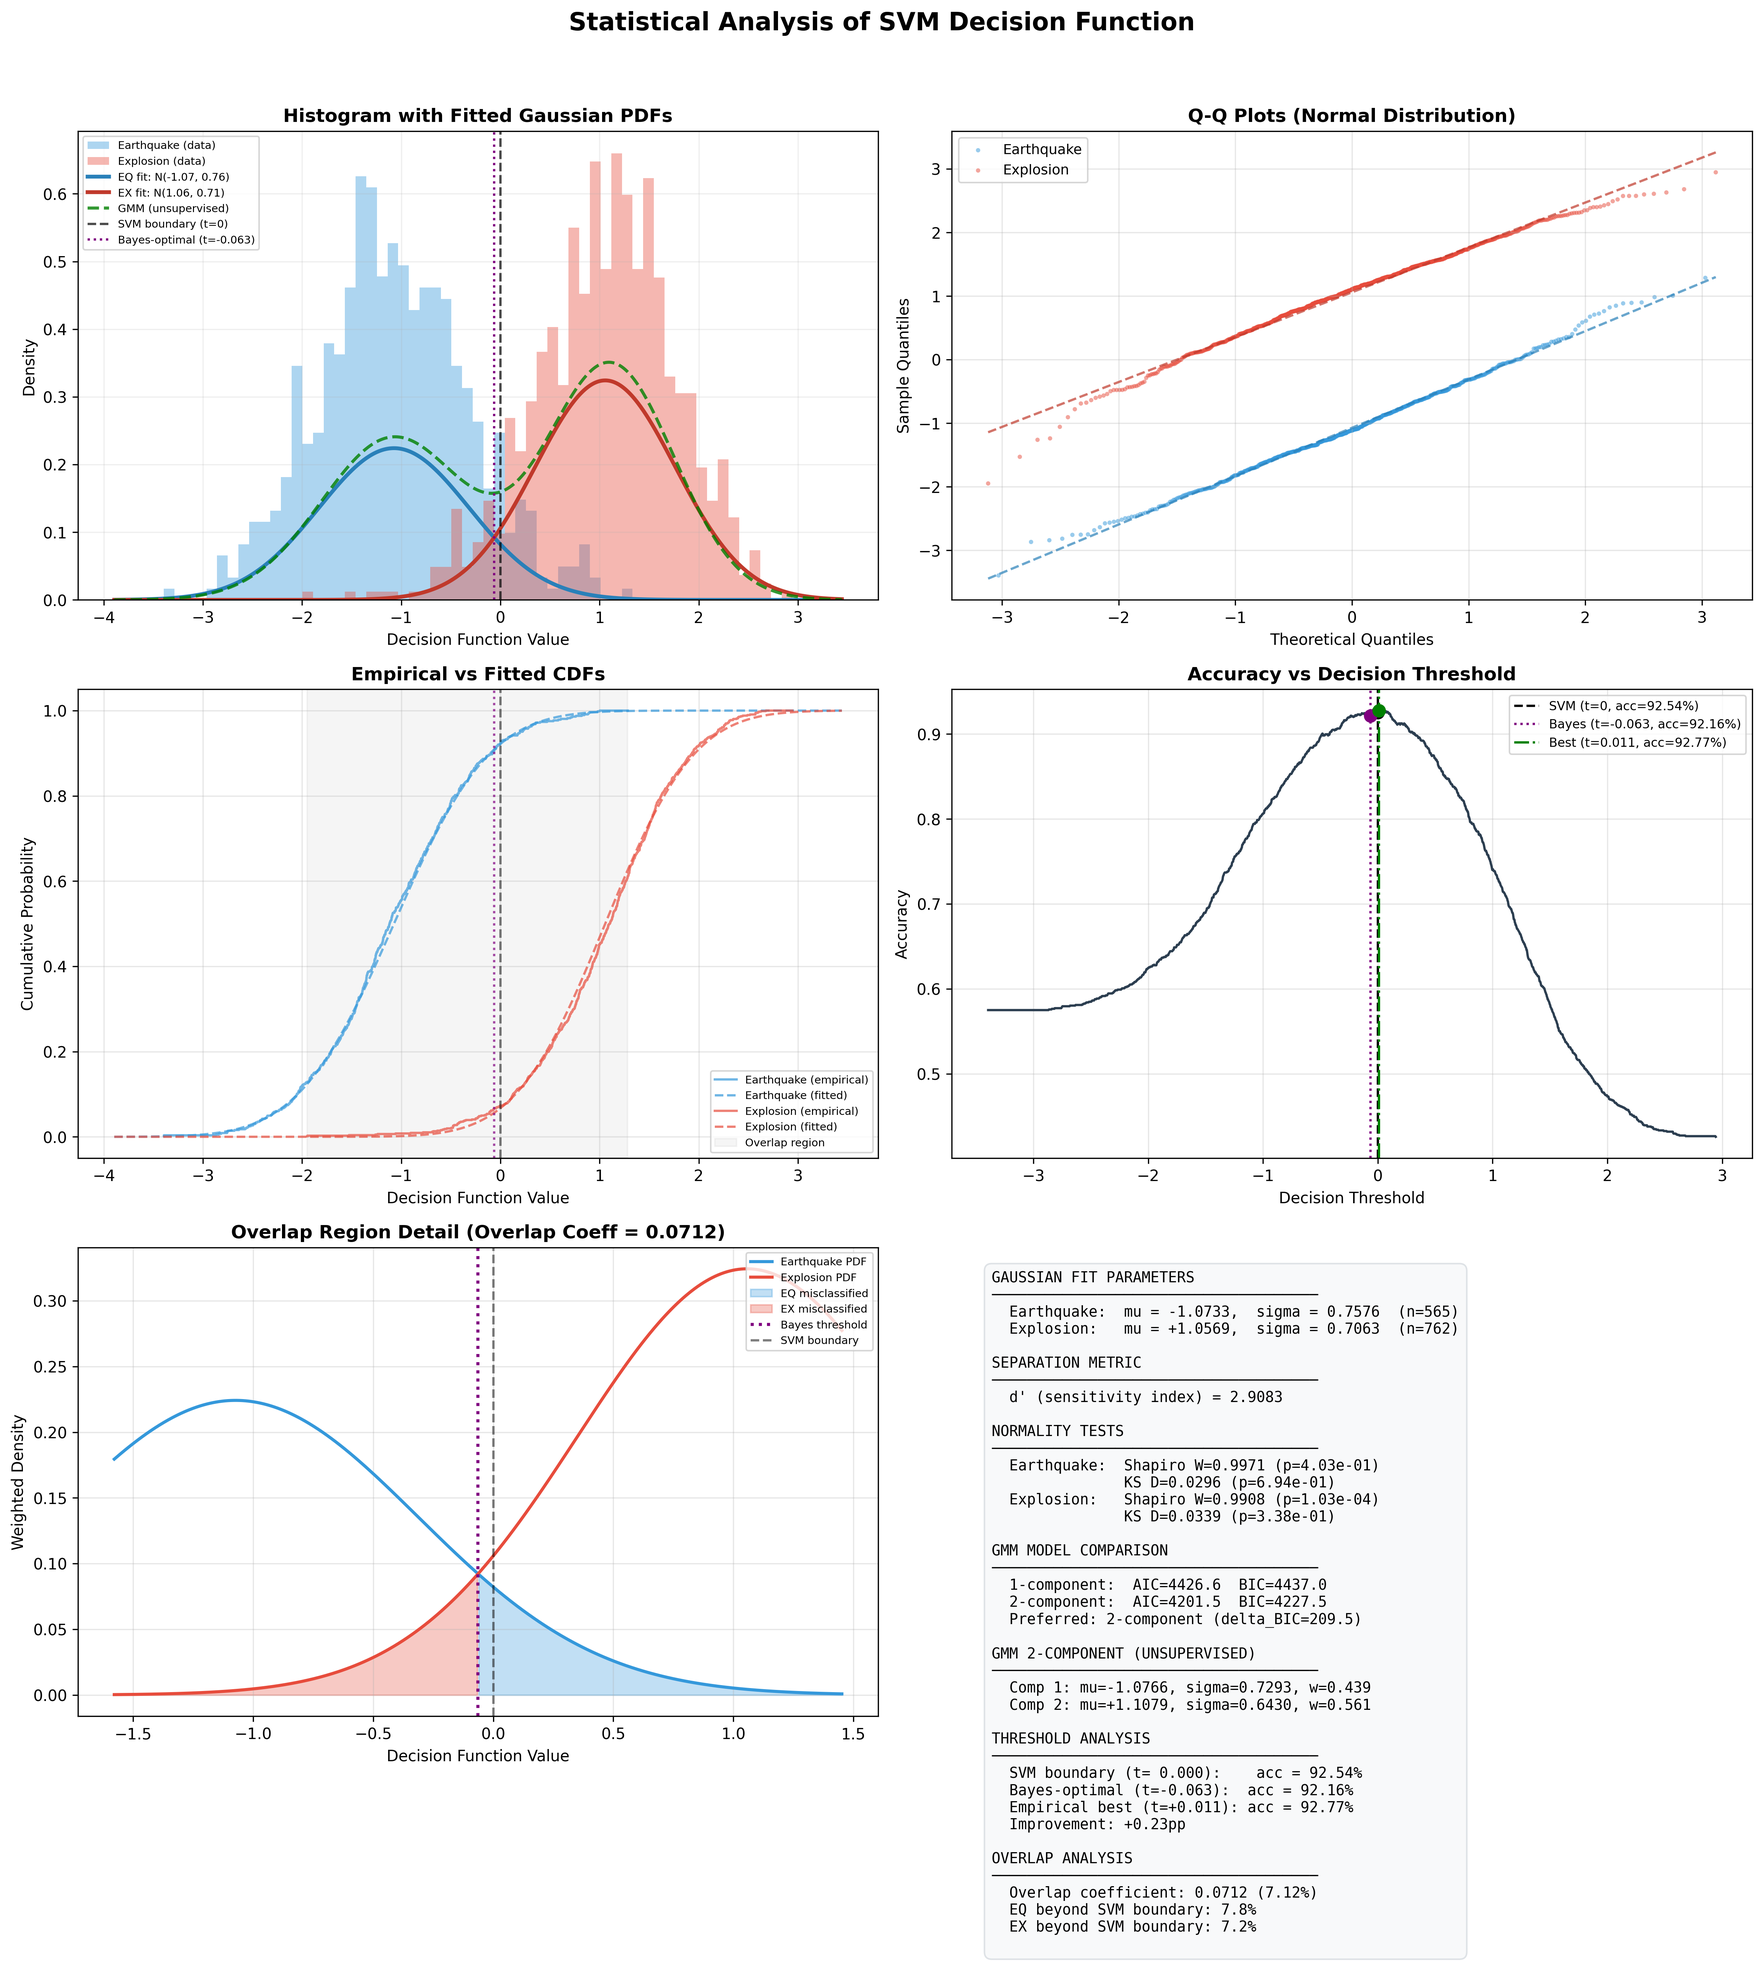
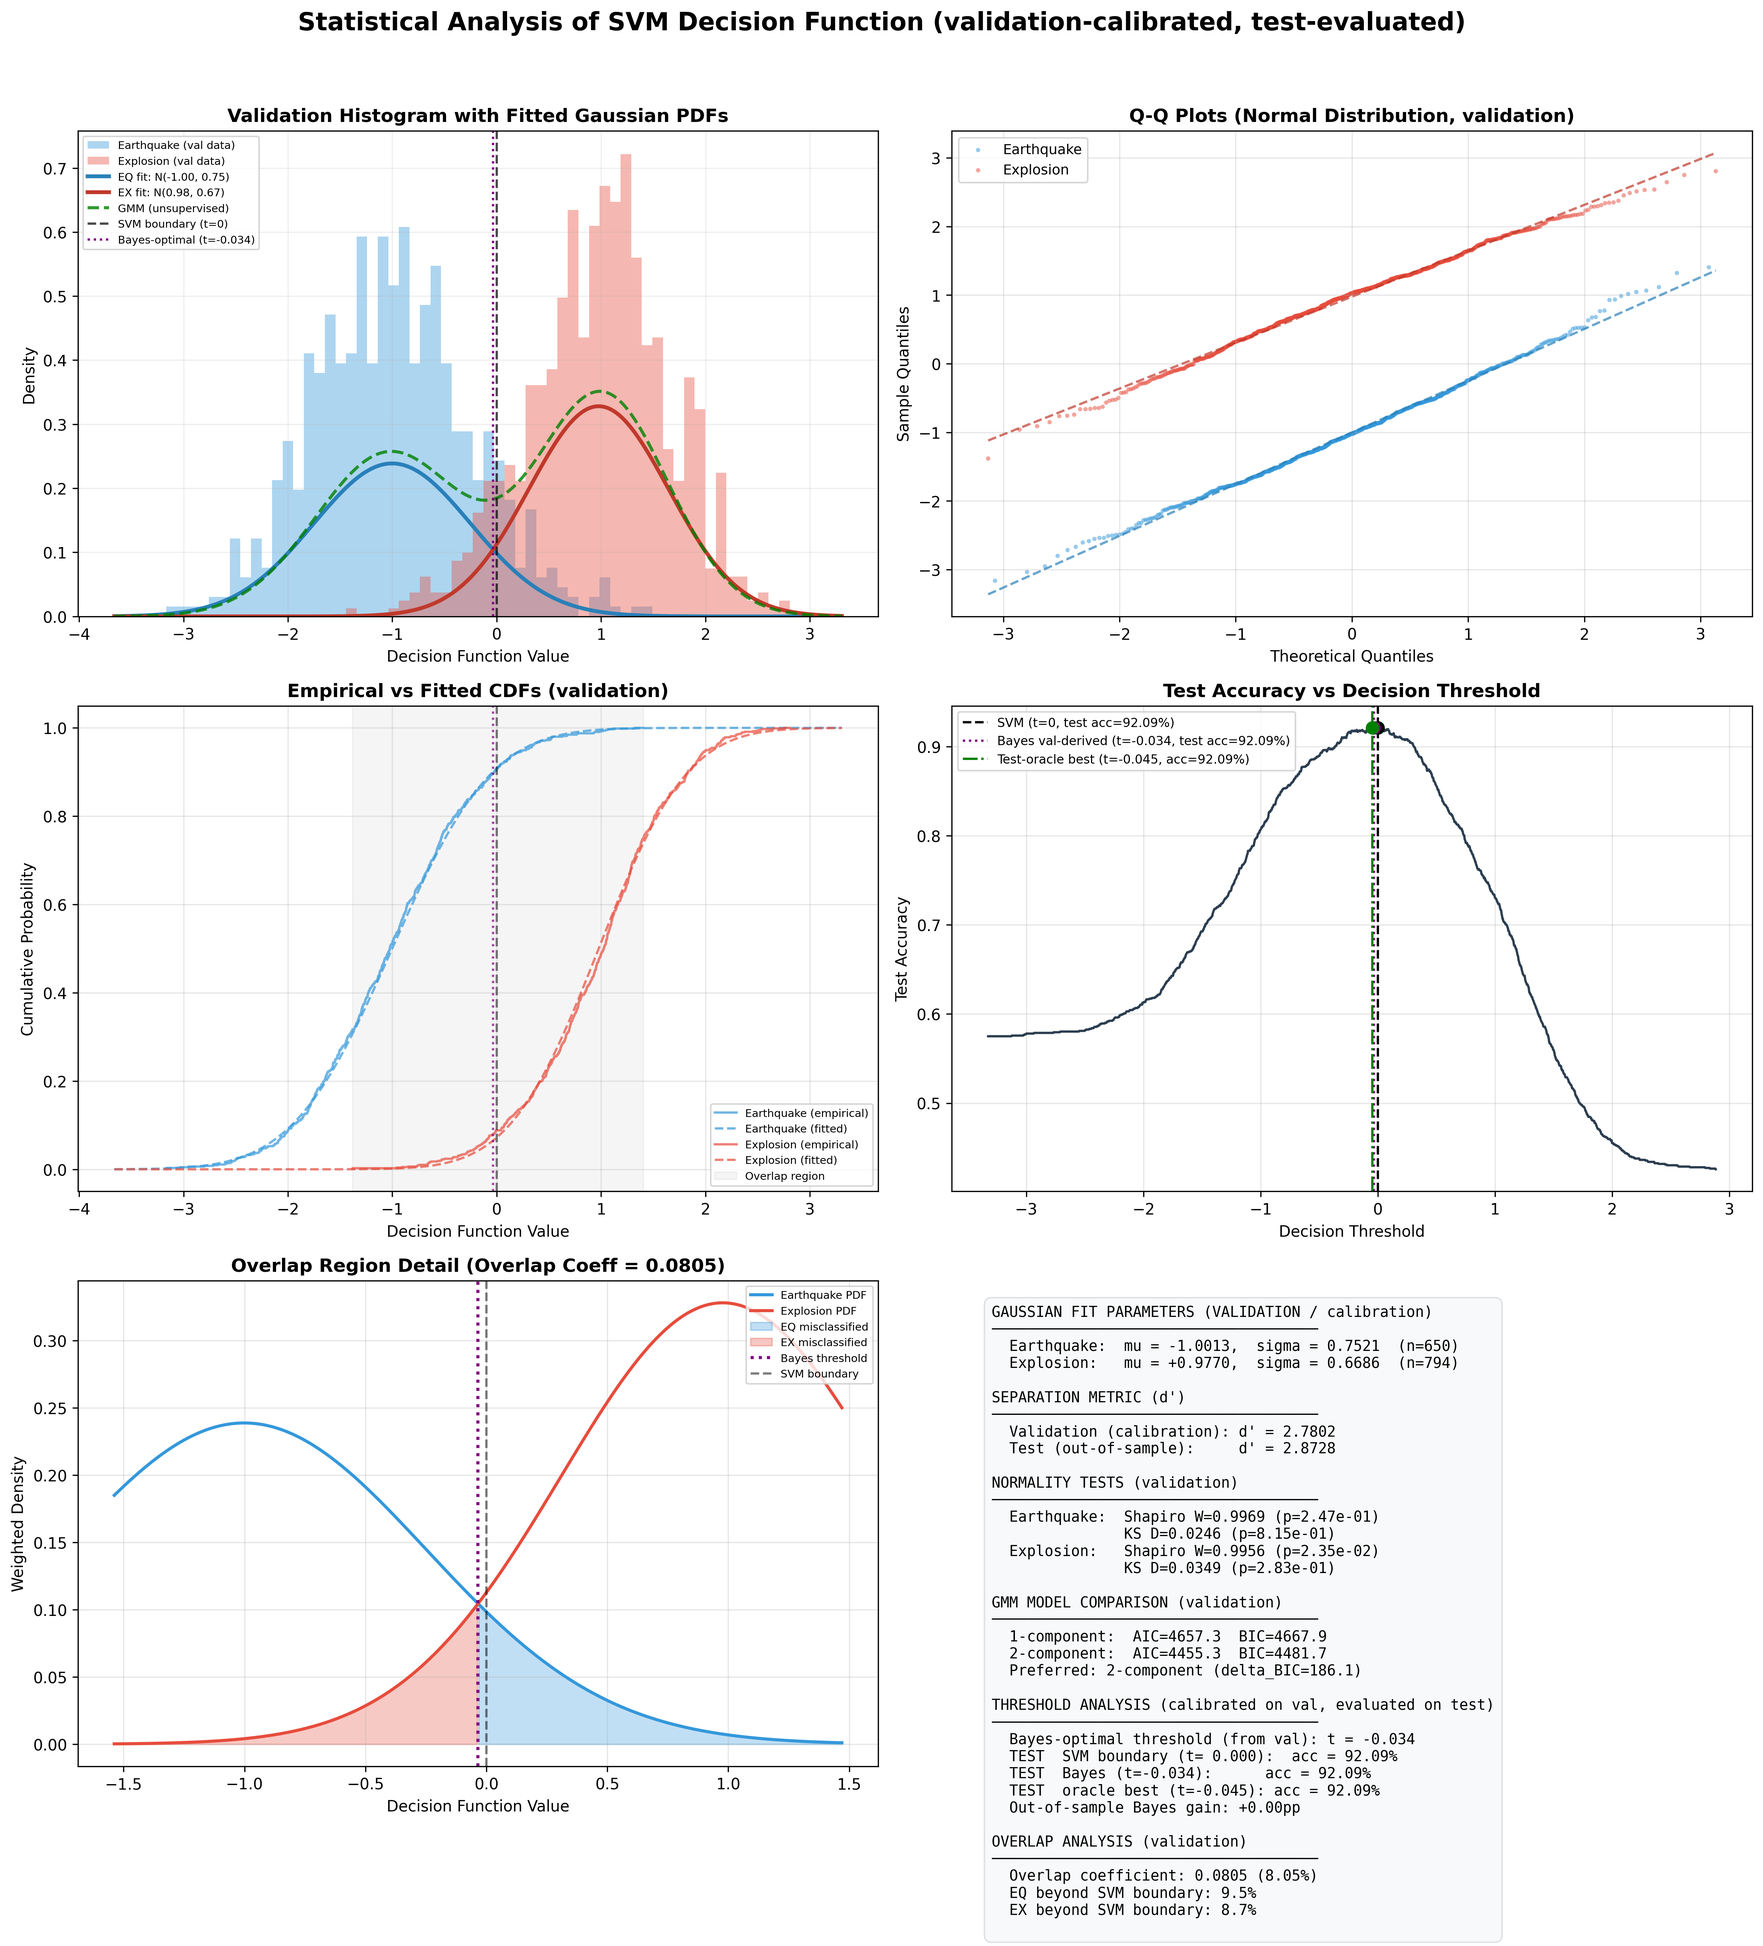
README: sync decision-function statistics with the paper; add Fig. 6
- Statistics section now reports the validation-calibrated, test-evaluated
  analysis used in the paper and supplement (Table S2-S4): Gaussian and GMM
  fits, BIC, normality tests, d' (2.78 val / 2.87 test), Bayes threshold
  (-0.034) and deployment-prior table. Replaces the older test-set fit.
- BIC read on the Kass & Raftery scale as an approximation to 2 ln B;
  drop the "d' > 2 is excellent" claim.
- Replace the class-mean spectra image with paper Fig. 6
  (spectra_and_ratio_by_channel.png); refresh the two statistics figures.
- Document how to regenerate paper Figs. 2 and 6, and warn that
  plot_decision_boundary overwrites the Fig. 2 files with a random pair.

diff --git a/README.md b/README.md
@@ -59,6 +59,7 @@ seismic-event-classifier/
 │       ├── p_only_and_distance.py        # P- vs S-onset accuracy; distance baseline and matched-distance accuracy
 │       ├── export_advisor_table.py       # Generate advisor review tables
 │       ├── plot_station_map.py           # Station map visualization
+│       ├── plot_advisor_examples.py      # Paper Fig. 2 (example pair) and Fig. 6 (spectra and ratio)
 │       └── extract_example_waveforms.py  # Extract example waveforms for figures
 ├── figures/                              # Figures embedded in this README
 ├── advisor_figures/                      # Figures contributed by domain advisor (GSI)
@@ -119,7 +120,9 @@ Raw Seismic Data (N, 600, 3)     600 timesteps x 3 channels (Z, N, E)
 
 After selecting the best hyperparameters on the validation set, the model is retrained on **train + val combined** before evaluating on test. The test set is never seen during tuning.
 
-![Average Spectra](figures/average_spectra.png)
+![Spectra and explosion/earthquake ratio for one event pair](figures/spectra_and_ratio_by_channel.png)
+
+Paper Fig. 6: per-channel spectra of one earthquake (event 123583 at OFRI) and one explosion (event 399313 at ZFRI), the same pair as the paper's Fig. 2. Top: spectra normalized to each channel's peak. Bottom: log10 explosion/earthquake ratio. The band outside the 1-20 Hz bandpass is shaded.
 
 ## Ablation Study
 
@@ -218,83 +221,86 @@ python -m src.post_review.event_level_predictions
 
 ## Statistical Analysis of the Decision Function
 
-We observed that the SVM decision function values for each class closely resemble Gaussian distributions. To rigorously validate this and exploit it, we conducted a deep statistical analysis on a single SVM model (FFT + Euclidean, k=120). The ensemble uses majority voting across 5 models and does not produce a single decision function, so the distributional analysis characterizes individual models within the ensemble.
+The SVM decision-function values for each class closely resemble Gaussian distributions. We analyze this on a single SVM model (FFT + Euclidean, k=120): the ensemble combines five models by majority vote and has no single decision function, so the analysis characterizes the individual models within it. Following the paper's out-of-sample protocol, the analysis model is trained on the training split, every quantity below is calibrated on the validation split, and the test split is used only for evaluation (paper Section 5.8; Supplementary Material, Sections S-III and S-IV).
 
 ### Gaussian Mixture Model Validation
 
-We fit individual Gaussians to each class's decision function values and separately fit a 2-component GMM to the combined (unlabeled) decision values.
+We fit a Gaussian to each class's validation decision values and, separately, a 2-component GMM to the pooled (unlabeled) validation decision values.
 
-| Parameter | Earthquake | Explosion |
-|-----------|-----------|-----------|
-| Mean (mu) | -1.07 | +1.06 |
-| Std (sigma) | 0.76 | 0.71 |
-| n | 565 | 762 |
+| Fit | Class | Mean (mu) | Std (sigma) | Weight |
+|-----|-------|-----------|-------------|--------|
+| Supervised | Earthquake (n=650) | -1.00 | 0.75 | 0.450 |
+| Supervised | Explosion (n=794) | +0.98 | 0.67 | 0.550 |
+| Unsupervised GMM | Component 1 | -1.03 | 0.71 | 0.452 |
+| Unsupervised GMM | Component 2 | +1.01 | 0.63 | 0.548 |
 
 ![Decision Function Analysis](figures/decision_function_analysis.png)
 
-**The unsupervised GMM recovers the class structure without labels.** The 2-component GMM (fitted on unlabeled decision values) finds components at mu=-1.08 and mu=+1.11 with weights 0.44/0.56 -- nearly identical to the supervised fits and the true class proportions (42.6%/57.4%). This confirms that the class separation in the SVM's decision space is intrinsic to the data, not an artifact of the classifier.
+**The unsupervised GMM recovers the class structure without labels.** Its component means lie within 0.05 of the supervised means, and its weights within 0.02 of the validation class proportions (45.0%/55.0%). The two-class structure is therefore intrinsic to the decision function rather than an artifact of supervised fitting.
 
-**Model selection strongly favors 2 components.** BIC comparison: 1-component BIC=4437.0, 2-component BIC=4227.5, delta_BIC=209.5. A delta_BIC > 10 is conventionally considered "very strong evidence" (Kass & Raftery, 1995), making this result unambiguous.
+**Model selection favors 2 components.** BIC is 4667.9 for one component and 4481.7 for two (delta_BIC ≈ 186). Because delta_BIC approximates twice the log Bayes factor, it can be read on the Kass & Raftery (1995) scale, where values above 10 count as "very strong" evidence; 186 is far beyond that.
 
 ### Normality Tests
 
-| Test | Earthquake | Explosion |
+| Test | Earthquake (n=650) | Explosion (n=794) |
 |------|-----------|-----------|
-| Shapiro-Wilk W | 0.9971 (p=0.403) | 0.9908 (p=1.0×10⁻⁴) |
-| Kolmogorov-Smirnov D | 0.0296 (p=0.694) | 0.0339 (p=0.338) |
+| Shapiro-Wilk W | 0.9969 (p=0.247) | 0.9956 (p=0.023) |
+| Kolmogorov-Smirnov D | 0.0246 (p=0.815) | 0.0349 (p=0.283) |
 
-The KS test cannot reject normality for either class (p > 0.33), confirming the Gaussian assumption. The Shapiro-Wilk test, which is more sensitive to tail deviations, detects statistically significant but practically negligible departures (W > 0.99 in both cases). The Q-Q plots show these deviations are limited to the extreme tails.
+The KS test cannot reject normality for either class. The more tail-sensitive Shapiro-Wilk test flags a statistically significant but small departure for the explosion class (W > 0.99 for both classes); the Q-Q plots show that the deviations are confined to the extreme tails.
 
 ### Sensitivity Index (d-prime)
 
-The d-prime (d') from signal detection theory provides a single scalar measuring class separability:
+The d-prime (d') from signal detection theory measures class separability as the distance between the class means in pooled standard deviations:
 
-$$d' = \frac{|\mu_{EX} - \mu_{EQ}|}{\sqrt{(\sigma_{EQ}^2 + \sigma_{EX}^2)/2}} = 2.91$$
+$$d' = \frac{|\mu_{EX} - \mu_{EQ}|}{\sqrt{(\sigma_{EQ}^2 + \sigma_{EX}^2)/2}}$$
 
-A d' of 2.91 corresponds to approximately 93% correct classification under optimal conditions (equal-variance Gaussian model), which closely matches our observed test accuracy. In psychophysics and signal detection literature, d' > 2 is considered "excellent" discriminability.
+With the validation fits, d' = 2.78; the same class-conditional model gives d' = 2.87 on the held-out test set. For two equal-variance Gaussians, a d' in this range corresponds to an ideal-observer accuracy of about 92%, close to the single SVM's test accuracy (92.09%).
 
 ### Bayes-Optimal Threshold Calibration
 
-The standard SVM decision boundary sits at `decision_function(x) = 0`, which implicitly assumes equal class priors. However, our test set has 762 explosions vs 565 earthquakes (57%/43%). The Bayes-optimal threshold accounts for this imbalance by finding where the prior-weighted posterior densities cross:
+The standard SVM decision boundary sits at `decision_function(x) = 0`, which implicitly assumes equal class priors. The Bayes-optimal threshold is where the prior-weighted class densities cross:
 
 $$P(EQ) \cdot \mathcal{N}(x; \mu_{EQ}, \sigma_{EQ}) = P(EX) \cdot \mathcal{N}(x; \mu_{EX}, \sigma_{EX})$$
 
-| Threshold | Accuracy |
-|-----------|----------|
-| SVM default (t=0.000) | 92.54% |
-| Bayes-optimal (t=-0.063) | 92.24% |
-| Empirical best (t=+0.011) | 92.77% |
+With the validation fits and validation priors (45% earthquakes, 55% explosions), tau* = -0.034. On the held-out test set:
 
-The empirically swept optimum yields a **+0.23pp improvement** with no retraining -- purely a post-hoc adjustment. The close agreement between the Bayes-optimal threshold and the SVM default confirms that the SVM is already operating near the Bayes-optimal decision boundary.
+| Threshold | Value | Test accuracy |
+|-----------|-------|---------------|
+| SVM default | t = 0.000 | 92.09% |
+| Bayes-optimal (from validation) | t = -0.034 | 92.09% |
+| Test-set oracle | t = -0.045 | 92.09% |
+
+At these near-balanced priors the SVM default is already at the Bayes-optimal point, and calibration changes nothing (+0.00 pp).
 
 The `BayesThresholdCalibrator` class in `classifier.py` implements this. It also accepts custom priors for deployment scenarios with different class ratios (e.g., real-world monitoring where explosions vastly outnumber earthquakes).
 
 ### Calibration Under Deployment Imbalance
 
-In operational monitoring, explosions may outnumber earthquakes by 10:1 or more. We simulated this by computing prior-weighted accuracy under varying explosion priors:
+In operational monitoring the class mix can be far more imbalanced than in a curated dataset. We simulated this by computing prior-weighted test accuracy under varying explosion priors, with tau* derived from the validation-calibrated Gaussians:
 
 | Scenario | π_EX | Threshold τ* | Acc (t=0) | Gain |
 |----------|------|-------------|-----------|------|
-| Balanced | 50% | +0.012 | 92.50% | +0.27pp |
-| Test set | 57% | −0.063 | 92.54% | −0.30pp |
-| Moderate | 70% | −0.200 | 92.61% | +0.47pp |
-| High | 80% | −0.333 | 92.67% | +0.92pp |
-| Severe | 90% | −0.530 | 92.73% | **+3.27pp** |
-| Operational | 95% | −0.710 | 92.75% | **+4.82pp** |
-| Extreme | 99% | −1.101 | 92.78% | **+6.21pp** |
+| Balanced | 50% | +0.016 | 92.10% | −0.11pp |
+| Test set | 57% | −0.059 | 92.09% | −0.15pp |
+| Moderate | 70% | −0.196 | 92.06% | +0.56pp |
+| High | 80% | −0.328 | 92.04% | +1.73pp |
+| Severe | 90% | −0.523 | 92.02% | **+4.24pp** |
+| Operational | 95% | −0.699 | 92.01% | **+5.50pp** |
+| Extreme | 99% | −1.077 | 92.00% | **+6.86pp** |
 
-At our test set balance, the SVM default is already near-optimal. But at realistic operational ratios (90-99% explosions), the calibration provides **3-6pp for free** — no retraining, just a threshold shift derived from the fitted Gaussians.
+At the test-set balance the SVM default is already near-optimal. As the explosion prior rises, calibration gains 4-7 pp with no retraining, only a threshold shift derived from the fitted Gaussians. These gains come from reweighting the test set; validation on a genuinely imbalanced operational catalog is still to be done.
 
 ![Threshold Calibration](figures/threshold_calibration.png)
 
 ### Overlap Analysis
 
-The overlap coefficient between the two class distributions is 0.0712 (7.12%), computed as the integral of the minimum of the two prior-weighted PDFs. This represents the theoretical lower bound on the Bayes error rate -- no classifier operating on the SVM decision function alone can achieve less than ~7% misclassification.
+The overlap coefficient between the two prior-weighted class distributions is 0.081 (8.1%), a lower bound on the Bayes error for any classifier operating on the decision function alone. The empirical validation error rates are close to this bound:
 
-- Earthquakes beyond SVM boundary: 7.8%
-- Explosions beyond SVM boundary: 7.2%
+- Earthquakes beyond the SVM boundary: 9.5%
+- Explosions beyond the SVM boundary: 8.7%
 
-The near-symmetry of the misclassification rates (despite unequal priors) is a consequence of `class_weight='balanced'` in the SVM, which adjusts the margin during training to equalize per-class error rates.
+The near-symmetry of the per-class error rates despite unequal priors follows from `class_weight='balanced'` in the SVM, which equalizes each class's contribution to the soft-margin loss.
 
 ## Generated Plots
 
@@ -330,6 +336,17 @@ Saved to `output/decision_boundary_plots/` by running `python -m src.plot_decisi
 | `spectral_difference.png` | Explosion minus earthquake mean spectrum — shows which frequencies are discriminative |
 | `example_waveforms.png` | Single earthquake vs explosion raw waveform comparison |
 | `example_spectra.png` | FFT spectra of the same example events |
+
+Note: `plot_decision_boundary` draws its example pair at random and writes it to `example_waveforms` and `example_spectra`, overwriting the paper's Fig. 2 files. Run the commands under "Generate the Paper's Figures 2 and 6" afterwards to restore them.
+
+### Paper Figures 2 and 6
+
+Saved to `output/decision_boundary_plots/` by `src/post_review/plot_advisor_examples.py`, for earthquake 123583 at OFRI and explosion 399313 at ZFRI:
+
+| Plot | Description |
+|------|-------------|
+| `example_waveforms.pdf`, `example_spectra.pdf` | Fig. 2: three-component waveforms and spectra of the pair |
+| `spectra_and_ratio_by_channel.pdf` | Fig. 6: per-channel peak-normalized spectra of the pair (top) and log10 explosion/earthquake ratio (bottom) |
 
 ### GMM Statistical Analysis
 
@@ -379,6 +396,15 @@ python -m src.plot_ablation
 ```bash
 python -m src.plot_decision_boundary
 ```
+
+### Generate the Paper's Figures 2 and 6
+
+```bash
+python -m src.post_review.plot_advisor_examples
+python -c "from src.post_review.plot_advisor_examples import plot_spectra_and_ratio_pair; plot_spectra_and_ratio_pair(123583, 'OFRI', 399313, 'ZFRI', fmax=60.0)"
+```
+
+The first command writes Fig. 2 and the second Fig. 6.
 
 ### Generate GMM Statistical Analysis
 
